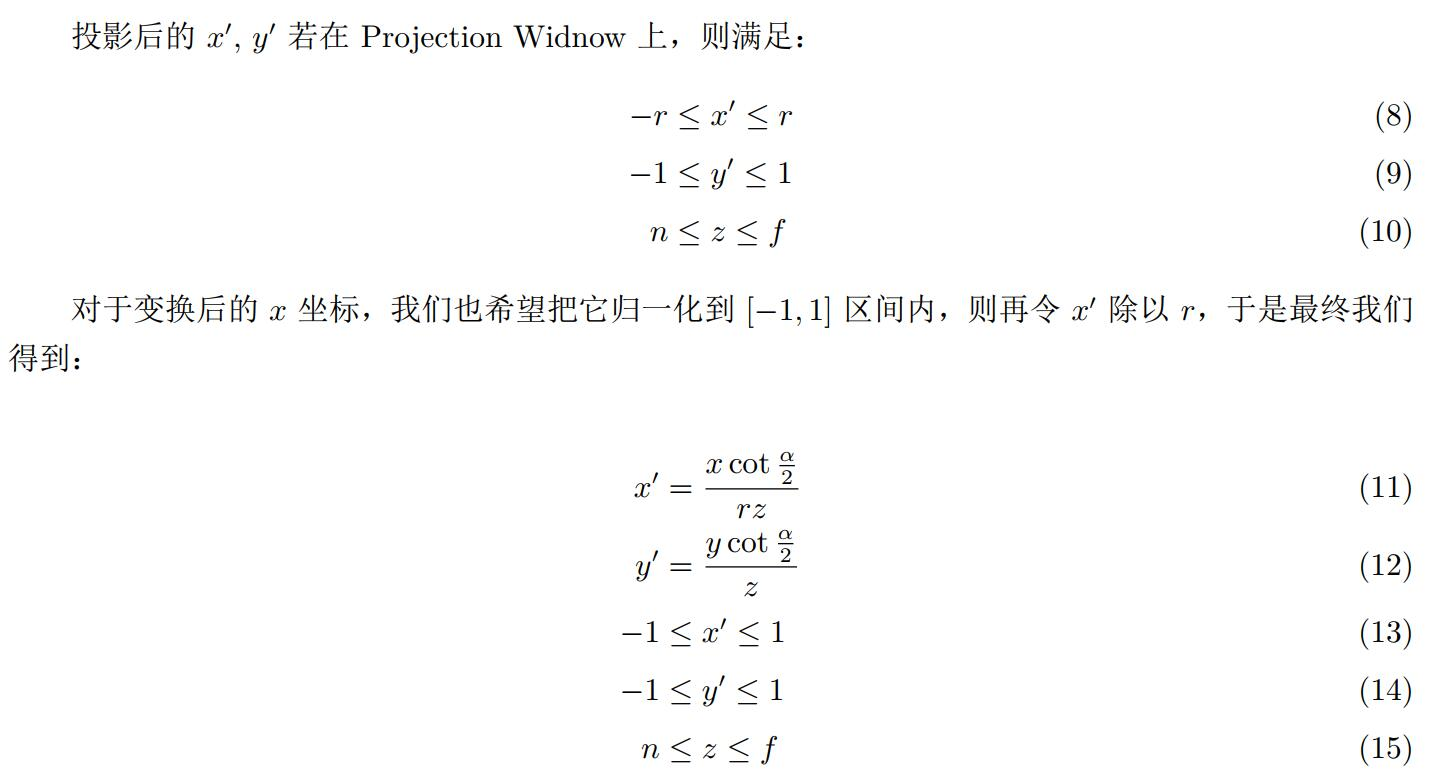
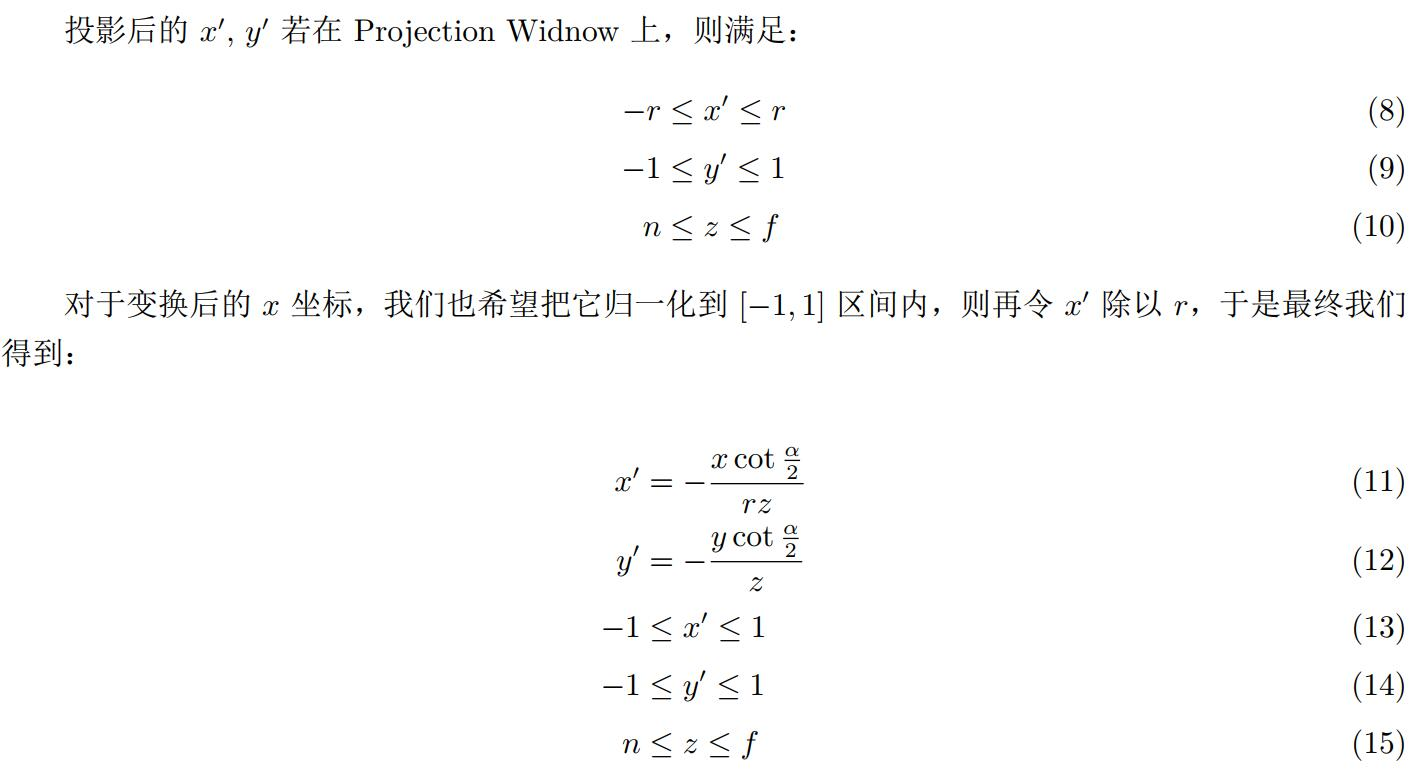
第四章基本完成

diff --git a/Latex/4.tex b/Latex/4.tex
@@ -107,24 +107,22 @@ $P = \begin{bmatrix}
 
 \newpage 
 
-\section{Perspective Projection}
+在上图中我们设Projection Window的半高为1(高为2)，半宽则为宽高比$r$(宽为$2r$)
+由几何关系，我们有从眼睛到Projection Window的距离$d$满足$\tan\frac{\alpha}{2} = \frac{1}{d}$，从而$d = \cot\frac{\alpha}{2}$。
+%而上图中的$\beta$角满足$\tan\frac{\beta}{2} = \frac{r}{d} = r \tan\frac{\alpha}{2}$
 
-在上图中我们设Projection Window的半高位1(高为2)，半宽则为宽高比$r$(宽为$2r$)
-由几何关系，我们有从眼睛到Projection Window的距离$d$满足$\tan\frac{\alpha}{2} = \frac{1}{d}$，从而$d = \cot\frac{\alpha}{2}$，
-而上图中的$\beta$角满足$\tan\frac{\beta}{2} = \frac{r}{d} = r \tan\frac{\alpha}{2}$
-
-透视投影中，我们希望将一个坐标$(x,y,z)$变换到Projection Window上，也就是坐标变换为$(x', z', d)$
+透视投影中，我们希望将一个坐标$(x,y,z)$变换到Projection Window上，也就是坐标变换为$(x', z', -d)$(Projection Window在平面$z=-d$上)
 由相似三角形可得：
 
 \begin{align}
-\frac{x'}{d} &= \frac{x}{z} \\
-x' = \frac{xd}{z} &= \frac{x\cot\frac{\alpha}{2}}{z}
+\frac{x'}{-d} &= \frac{x}{z} \\
+x' = \frac{x(-d)}{z} &= -\frac{x\cot\frac{\alpha}{2}}{z}
 \end{align}
 
 同理有
 
 \begin{align}
-y' &= \frac{y\cot\frac{\alpha}{2}}{z}
+y' &= -\frac{y\cot\frac{\alpha}{2}}{z}
 \end{align}
 
 投影后的$x'$, $y'$若在Projection Widnow上，则满足：
@@ -137,12 +135,72 @@ y' &= \frac{y\cot\frac{\alpha}{2}}{z}
 对于变换后的$x$坐标，我们也希望把它归一化到$[-1,1]$区间内，则再令$x'$除以$r$，于是最终我们得到：
 
 \begin{align}
-    x' &= \frac{x\cot\frac{\alpha}{2}}{rz} \\
-    y' &= \frac{y\cot\frac{\alpha}{2}}{z} \\
+    x' &= -\frac{x\cot\frac{\alpha}{2}}{rz} \\
+    y' &= -\frac{y\cot\frac{\alpha}{2}}{z} \\
     -1& \le x' \le 1 \\
     -1&\le y' \le 1 \\
     n & \le z \le f 
 \end{align}
 
+\newpage
+
+其实到这里$x,y$的变换就已经算是完成了，但是还有很大的问题就是$x', y'$的表达式中含有透视投影的参数($\alpha,n,f,r$)之外的$z$。接下来我们想办法解决这个问题，并完成$z$坐标的投影。我们想到透视投影之后，OpenGL会进行一个透视除法将点$(x,y,z,w)$的四个分量都除以$w$分量，
+而$x', y'$的表达式也都只是在分母上有一个$z$，因此我们可以想办法让透视投影变换后的$w$分量等于$z$或者$-z$，而$x, y$的变换与$z$无关，于是我们构造一个这样的投影矩阵$P$，与$z$无关：
+
+\vspace{1em}
+
+$ P = \begin{bmatrix} \frac{\cot\frac{\alpha}{2}}{r} & 0 & 0 & 0 \\
+                      0 & \cot\frac{\alpha}{2} & 0 & 0 \\
+                      0 & 0 & A & B \\
+                      0 & 0 & -1 & 0 
+    \end {bmatrix}$
+
+
+矩阵对$x, y$的变换是已经确定了的，而对$z$的变换还不确定，因此我们设两个未知数$A$,$B$并在之后求解他们，先求得变换后的坐标：
+
+\vspace{1em}
+
+$\begin{bmatrix} \frac{\cot\frac{\alpha}{2}}{r} & 0 & 0 & 0 \\
+    0 & \cot\frac{\alpha}{2} & 0 & 0 \\
+    0 & 0 & A & B \\
+    0 & 0 & -1 & 0 
+\end {bmatrix} \begin{bmatrix} x \\ y \\ z \\ 1 \end{bmatrix} 
+= \begin{bmatrix} \frac{x\cot\frac{\alpha}{2}}{r} \\ {y\cot\frac{\alpha}{2}} \\ Az+B \\ -z\end{bmatrix}
+$
+
+之后进行透视除法，也就是所有分量除以$w$分量也就是$-z$得到
+\vspace{1em}
+
+
+$ \begin{bmatrix} -\frac{x\cot\frac{\alpha}{2}}{rz} \\ -\frac{y\cot\frac{\alpha}{2}}{z} \\ -(A+\frac{B}{z}) \\ 1\end{bmatrix} $
+
+可以看到，前两个分量的表达式与前面求得的$x',y'$是一致的。而对于$z$分量，
+我们可以看到投影变换并且进行透视除法之后的$z$
+坐标应该变为$-(A+\frac{B}{z})$。
+而且透视除法后进入NDC空间改用左手坐标系，那么近平面上$z = -n$时，应该对应NDC空间的$z$坐标$-1$，则$-(A+\frac{B}{z}) = -1$，
+而远平面上$z = -f$对应NDC空间$z=1$，则有$-(A+\frac{B}{z}) = 1$，于是得到方程组：
+
+\begin{align}
+-(A+\frac{B}{-n}) &= -1 \\
+-(A+\frac{B}{-f}) &= 1 
+\end{align}
+
+从而解得
+\begin{align}
+A &= -\frac{f+n}{f-n}\\
+B &= -\frac{2nf}{f-n} 
+\end{align}
+
+\newpage
+
+于是最终有投影矩阵$P$为：
+
+\vspace{1em}
+
+$ P = \begin{bmatrix} \frac{\cot\frac{\alpha}{2}}{r} & 0 & 0 & 0 \\
+    0 & \cot\frac{\alpha}{2} & 0 & 0 \\
+    0 & 0 & -\frac{f+n}{f-n} & -\frac{2nf}{f-n}  \\
+    0 & 0 & -1 & 0 
+\end {bmatrix}$
 
 \end{document}

diff --git a/4 坐标系与坐标变换/Coordinate&Transformation.md b/4 坐标系与坐标变换/Coordinate&Transformation.md
@@ -143,13 +143,13 @@ public:
 
 ### 首先说坐标系
 
-&emsp;&emsp; 在进入屏幕空间之前，OpenGL和我们在线性代数课程中所学一样使用右手坐标系，即x轴正方向在纸面内水平向右，y轴正方向在纸面内竖直向上，z轴正方向垂直纸面向外。如下图的右边的坐标系所示:
+&emsp;&emsp; 在进入所谓的NDC空间之前，OpenGL和我们在线性代数课程中所学一样使用右手坐标系，即x轴正方向在纸面内水平向右，y轴正方向在纸面内竖直向上，z轴正方向垂直纸面向外。如下图的右边的坐标系所示。而下图中左边的是左手坐标系。
 
 <img src="./LeftRightHandCoordinate.png">
 
 (图片来自书籍 Introduction to 3D Game Programming with Directx 11的"向量代数"章节Figure1.5)
 
-&emsp;&emsp; 之后所讲的坐标变换方法在左手坐标系中也都成立，但要注意Z轴的方向相反。在自测题目中会有左手坐标系有关的题目。
+&emsp;&emsp; 之后所讲的坐标变换方法主要是在右手坐标系中进行的，但是在左手坐标系中也都成立，要注意Z轴的方向相反。在自测题目中会有左手坐标系有关的题目。
 
 ### 局部空间
 
@@ -175,7 +175,7 @@ public:
 
 ### NDC空间
 
-&emsp;&emsp; 完成P变换后，物体各个点坐标(x, y, z, w)都除以w分量，变为(x', y', z', 1)，且满足各个x,y,z各个分量都在\[-1, 1]之间（这个所谓的“透视除法”是OpenGL自动完成的，不需要编程中刻意去做，为什么满足这个坐标范围之后投影变换部分会讲）。NDC空间下的坐标与最终呈现图像的设备的尺寸，宽高比等都无关，使的图形能摆脱对支撑软件、具体物理设备的依赖性，也方便能在不同应用和不同系统之间交换图形信息。 一个初学者常有的误区是，坐标永远都应该在\[-1, 1]之间，其实不是，只是到NDC空间之后才是这样，在之前的局部坐标，世界坐标，观察坐标中，坐标取值都没有这个限制的，而是直到投影变换才将坐标变换到一个能确定的但是与参数有关的范围，再进一步完成透视除法后才到NDC坐标有\[-1, 1]的与参数无关的范围。
+&emsp;&emsp; 完成P变换后，物体各个点坐标(x, y, z, w)都除以w分量，变为(x', y', z', 1)，且满足各个x,y,z各个分量都在\[-1, 1]之间（这个所谓的“透视除法”是OpenGL自动完成的，不需要编程中刻意去做，为什么满足这个坐标范围之后投影变换部分会讲）。NDC空间使用的是**左手坐标系**(我也不知道为什么突然改用左手坐标系了，这个后面投影的时候有用，先记住)，空间内的坐标与最终呈现图像的设备的尺寸，宽高比等都无关，使的图形能摆脱对支撑软件、具体物理设备的依赖性，也方便能在不同应用和不同系统之间交换图形信息。 一个初学者常有的误区是，坐标永远都应该在\[-1, 1]之间，其实不是，只是到NDC空间之后才是这样，在之前的局部坐标，世界坐标，观察坐标中，坐标取值都没有这个限制的，而是直到投影变换才将坐标变换到一个能确定的但是与参数有关的范围，再进一步完成透视除法后才到NDC坐标有\[-1, 1]的与参数无关的范围。
 
 ### 屏幕空间
 
@@ -315,7 +315,7 @@ public:
 <img src="./OrthoProjection2.gif">
 <a href="https://blog.csdn.net/sy95122/article/details/81198268">图片来源</a>
 
-&emsp;&emsp;正交投影相当于是把长方体世界空间“压缩”到一个正六面体空间中，如上图（注意第二幅图有一小问题，规范化设备坐标系也是右手坐标系，图中z轴应朝外）。相当于是缩放和平移变换的组合。这里直接给出正交投影矩阵：
+&emsp;&emsp;正交投影相当于是把长方体世界空间“压缩”到一个正六面体空间中，如上图（注意第二幅图，到NDC空间后变成了左手坐标系，Z轴正方形垂直纸面朝内）。相当于是缩放和平移变换的组合。这里直接给出正交投影矩阵：
 
 <img src="./formula/OrthoProjectionMatrix.jpg">
 
@@ -328,17 +328,46 @@ public:
 
 &emsp;&emsp;图中为从眼睛看到的空间，透视投影就是要将View Space下的坐标变换到上图中白色棱台内的空间中。该空间具有四个参数：**场视角**(FOV, Field of View，为图中红色标出的的角，用字母α表示)；**近平面Z坐标**(zNear，用字母n表示)，为棱台的形态学上顶面，同时限定了可见的点的最小Z坐标，**远平面Z坐标**(zFar，用字母f表示)，为棱台的形态学下底面，同时限定了可见的点的最大Z坐标；Z值超出zNear和zFar范围的最终点会被OpenGL裁剪掉。这也就是玩第一人称3D游戏时候，游戏里物体离你太远会看不到，而离得太近“贴在脸前”也会看不到的原因。最后还有一个参数为**窗口的宽高比**(Aspect Ratio，用字母r表示)，也就是上图中的Clip Window的宽高比，这个参数一般就等于glViewport指定的宽度和高度的比值。相当于透过Clip Window这个视窗去观察后面的物体。Clip Window也叫Projection Window。
 
+&emsp;&emsp;我们还是要明确一件事情，由于完成V变换后的空间仍然使用的是右手坐标系，即我们从Projection Window向“深处”观察，越深处的Z坐标数值越小，这里给出透视投影空间的侧视图和俯视图：
+
 <img src="./PerspectiveYZ.jpg">
-(透视投影空间侧视图，图来自Introduction to 3D Game Programming with Directx 11 Figure5.23)
+(透视投影空间侧视图，图来自Introduction to 3D Game Programming with Directx 11 Figure5.23，有修改，注意Z轴方向是-Z方向)
 
 
 <img src="./PerspectiveXZ.jpg">
-(投影空间俯视图，图来自Introduction to 3D Game Programming with Directx 11 Figure5.23)
+(投影空间俯视图，图来自Introduction to 3D Game Programming with Directx 11 Figure5.23，有修改注意Z轴方向是-Z方向)
 
 <img src="./formula/PerspectiveNote1.jpg">
 
 <img src="./formula/PerspectiveNote2.jpg">
 
+<img src="./formula/PerspectiveNote3.jpg">
+
+<img src="./formula/PerspectiveNote4.jpg">
+
+<img src="./formula/PerspectiveNote5.jpg">
+
+透视投影代码如下：
+
+```C++
+  //透视投影
+    Matrix4& perspective(float fovyAngle, float aspectRatio, float zNear, float zFar) {
+        assert(aspectRatio > 1e-8);
+        float cot2 = 1.0f / tanf(fovyAngle / 2.0f);
+        Matrix4 trans({
+            {cot2 / aspectRatio, 0, 0, 0},
+            {0, cot2, 0, 0},
+            {0, 0, -(zFar + zNear) / (zFar - zNear), -(2 * zFar * zNear) / (zFar - zNear)},
+            {0, 0, -1, 0}
+        });
+        multiple(trans);
+        return *this;
+    }
+```
+
+## 作者感言
+
+## 自测题目&启示
 
 ## 参考资料
 
